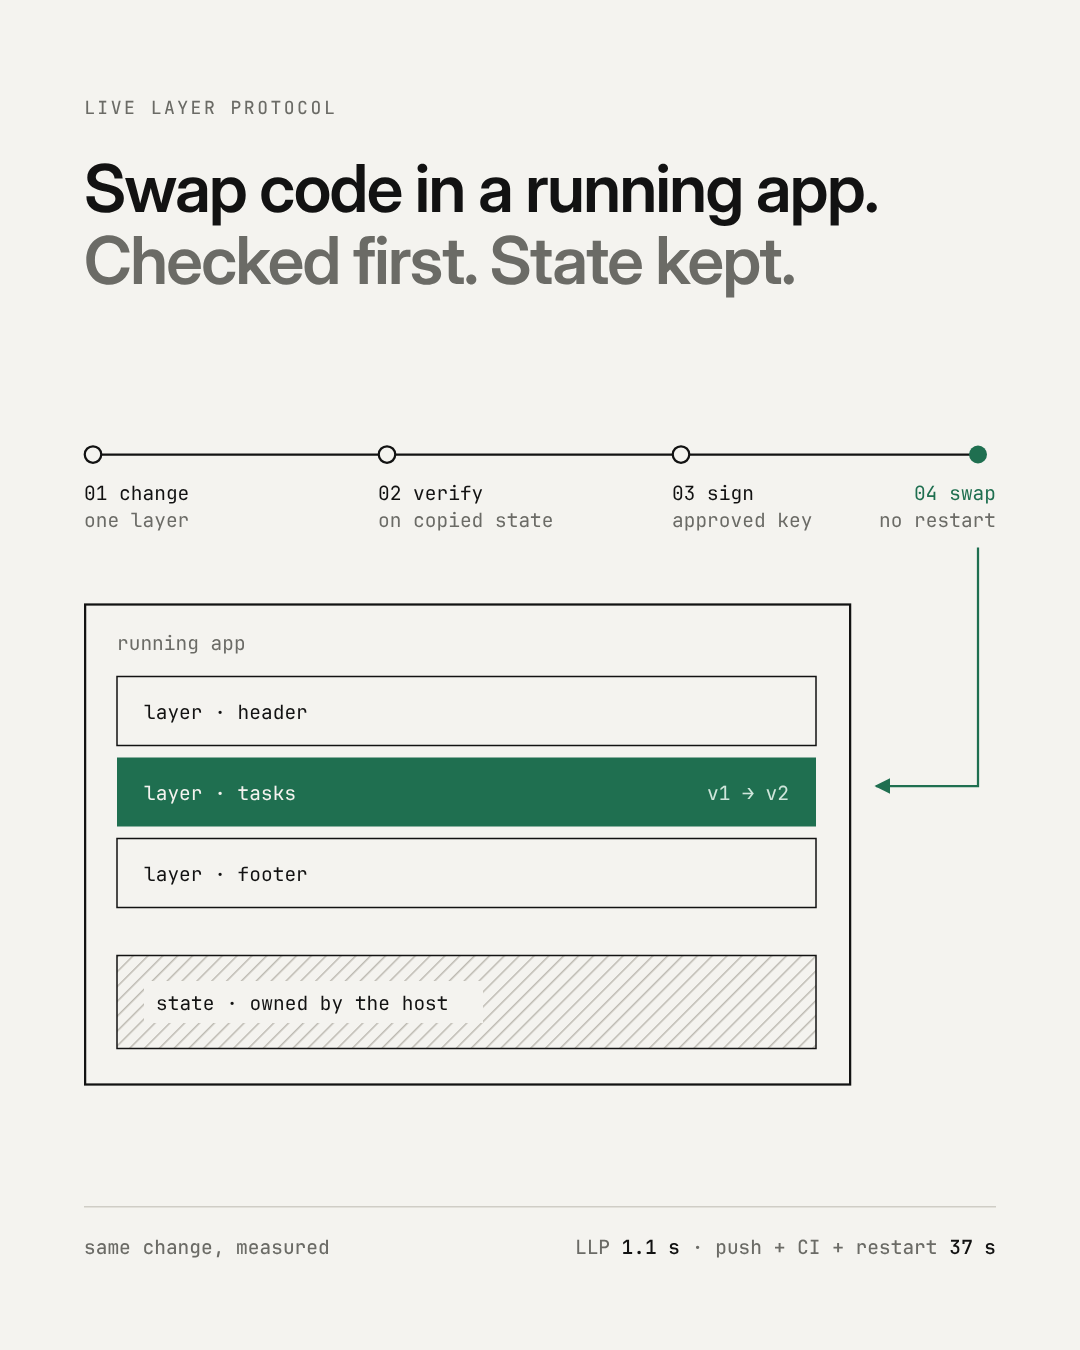
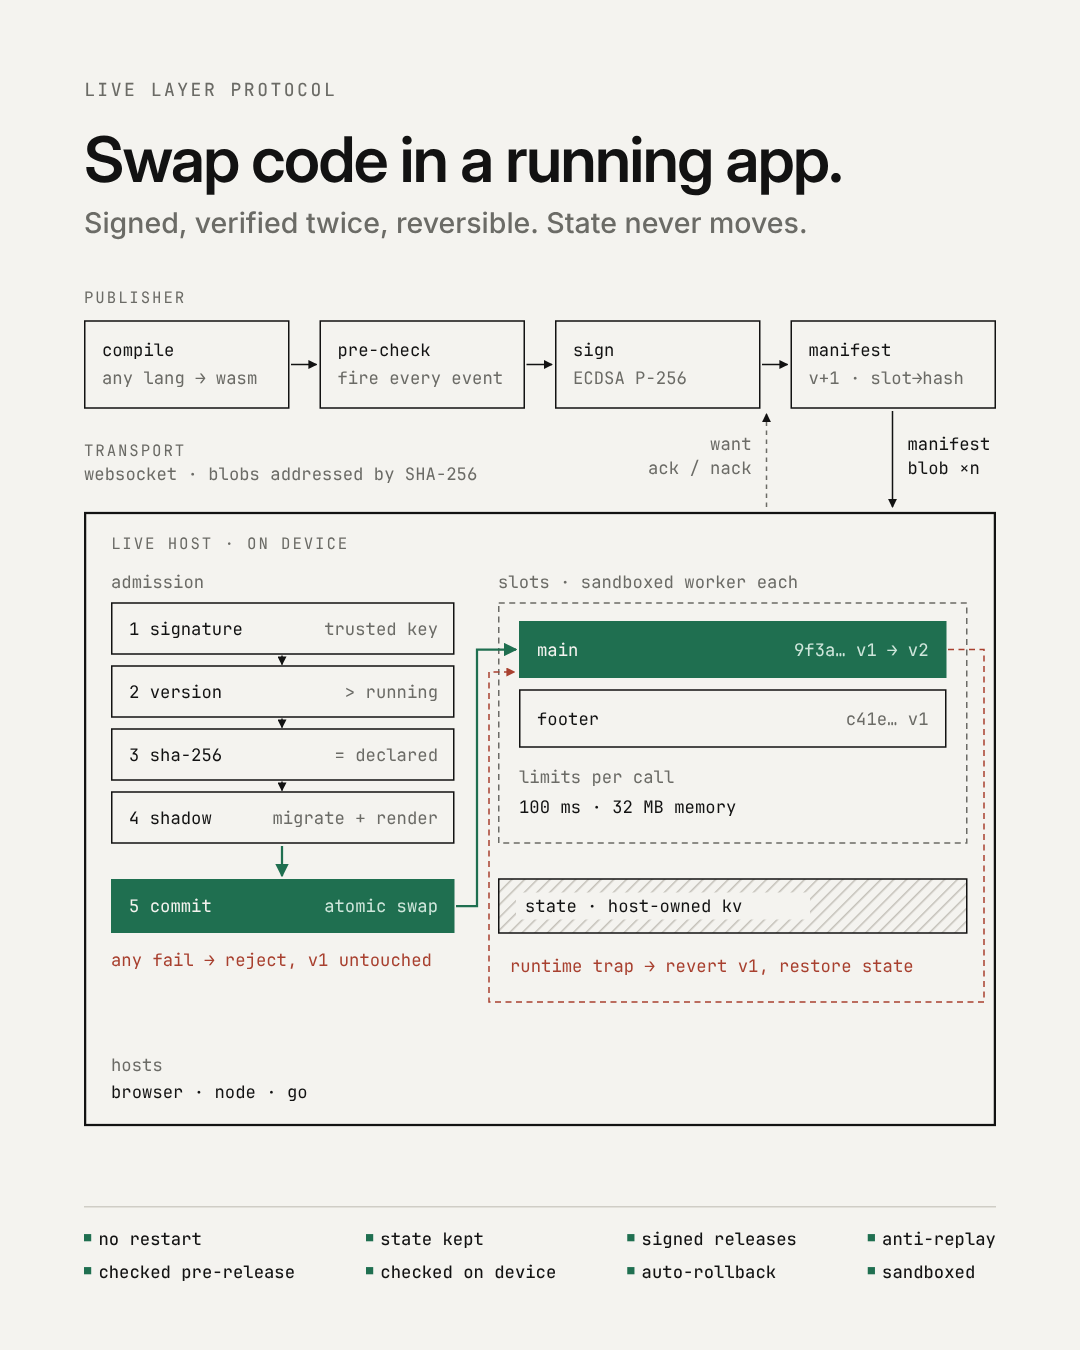
Show LLP's full pipeline in the 'How LLP works' image (#28)
Claude-Session: https://claude.ai/code/session_01WWj9cf3BCK6gR4RS3RDwqR

diff --git a/tools/demo-gif/architecture.html b/tools/demo-gif/architecture.html
@@ -1,59 +1,104 @@
 <!doctype html>
 <meta charset="utf-8">
 <title>How LLP works</title>
-<!-- "How LLP works" image for launch posts: a plain schematic, readable at one glance. Rendered to
-     docs/llp-architecture.png (1080x1350) by node tools/demo-gif/render-architecture.mjs.
-     Claims are in SPEC.md sections 3, 6 and 6.1; the timings are from docs/demo-run.json. -->
+<!-- "How LLP works" image for launch posts: what LLP does, as a schematic of the real pipeline.
+     Rendered to docs/llp-architecture.png (1080x1350) by node tools/demo-gif/render-architecture.mjs.
+     Every component is in SPEC.md sections 2, 3, 5 and 6, and the limits are DEFAULT_LIMITS in host/llp-core.js. -->
 <style>
-:root { --bg: #f4f3ef; --ink: #121212; --mid: #6b6b66; --rule: #cfcdc6; --acc: #1f6f50; }
+:root { --bg: #f4f3ef; --ink: #121212; --mid: #6b6b66; --rule: #cfcdc6; --acc: #1f6f50; --bad: #a8402f; }
 * { box-sizing: border-box; }
 html, body { margin: 0; width: 720px; height: 900px; overflow: hidden; background: var(--bg); color: var(--ink); font-family: Inter, sans-serif; }
-.wrap { padding: 64px 56px 0; }
-.k { font: 500 12px "JetBrains Mono", "DejaVu Sans Mono", monospace; letter-spacing: .14em; color: var(--mid); }
-h1 { margin: 22px 0 0; font: 600 44px/1.08 "Inter Display", Inter, sans-serif; letter-spacing: -0.025em; }
-h1 span { color: var(--mid); }
-svg { display: block; margin-top: 96px; overflow: visible; }
-svg text { font-family: "JetBrains Mono", "DejaVu Sans Mono", monospace; font-size: 13px; fill: var(--ink); }
-svg .m { fill: var(--mid); }
-.foot { position: absolute; left: 56px; right: 56px; bottom: 60px; border-top: 1px solid var(--rule); padding-top: 18px;
-  display: flex; justify-content: space-between; font: 500 13px "JetBrains Mono", "DejaVu Sans Mono", monospace; color: var(--mid); }
-.foot b { color: var(--ink); font-weight: 600; }
+.wrap { padding: 52px 56px 0; }
+.k { font: 500 12px "JetBrains Mono", monospace; letter-spacing: .14em; color: var(--mid); }
+h1 { margin: 16px 0 0; font: 600 42px/1.08 "Inter Display", Inter, sans-serif; letter-spacing: -0.025em; }
+.sub { margin: 8px 0 0; font: 500 19px/1.3 Inter, sans-serif; color: var(--mid); }
+svg { display: block; margin-top: 30px; overflow: visible; }
+svg text { font-family: "JetBrains Mono", monospace; font-size: 11.5px; fill: var(--ink); }
+svg .m { fill: var(--mid); } svg .h { font-size: 10.5px; letter-spacing: .12em; fill: var(--mid); }
+svg .w { fill: #f4f3ef; } svg .a { fill: var(--acc); } svg .r { fill: var(--bad); }
+.foot { position: absolute; left: 56px; right: 56px; bottom: 44px; border-top: 1px solid var(--rule); padding-top: 14px;
+  display: grid; grid-template-columns: repeat(4, auto); justify-content: space-between; row-gap: 7px;
+  font: 500 11.5px "JetBrains Mono", monospace; color: var(--ink); }
+.foot span::before { content: "■ "; color: var(--acc); font-size: 8px; vertical-align: 2px; }
 </style>
 <div class="wrap">
   <div class="k">LIVE LAYER PROTOCOL</div>
-  <h1>Swap code in a running app.<br><span>Checked first. State kept.</span></h1>
-  <svg width="608" height="440" viewBox="0 0 608 440">
+  <h1>Swap code in a running app.</h1>
+  <p class="sub">Signed, verified twice, reversible. State never moves.</p>
+  <svg width="608" height="560" viewBox="0 0 608 560">
     <defs>
-      <pattern id="h" width="7" height="7" patternUnits="userSpaceOnUse" patternTransform="rotate(45)"><line x1="0" y1="0" x2="0" y2="7" stroke="#bdbab2" stroke-width="2"/></pattern>
-      <marker id="a" viewBox="0 0 10 10" refX="9" refY="5" markerWidth="7" markerHeight="7" orient="auto"><path d="M0 0 L10 5 L0 10z" fill="#1f6f50"/></marker>
+      <pattern id="hat" width="6" height="6" patternUnits="userSpaceOnUse" patternTransform="rotate(45)"><line x1="0" y1="0" x2="0" y2="6" stroke="#c3c0b8" stroke-width="2"/></pattern>
+      <marker id="ar" viewBox="0 0 10 10" refX="9" refY="5" markerWidth="6" markerHeight="6" orient="auto"><path d="M0 0L10 5L0 10z" fill="#121212"/></marker>
+      <marker id="aa" viewBox="0 0 10 10" refX="9" refY="5" markerWidth="6" markerHeight="6" orient="auto"><path d="M0 0L10 5L0 10z" fill="#1f6f50"/></marker>
+      <marker id="arr" viewBox="0 0 10 10" refX="9" refY="5" markerWidth="6" markerHeight="6" orient="auto"><path d="M0 0L10 5L0 10z" fill="#a8402f"/></marker>
     </defs>
-    <!-- pipeline -->
-    <line x1="6" y1="10" x2="596" y2="10" stroke="#121212" stroke-width="1.5"/>
-    <g fill="#f4f3ef" stroke="#121212" stroke-width="1.5">
-      <circle cx="6" cy="10" r="5.5"/><circle cx="202" cy="10" r="5.5"/><circle cx="398" cy="10" r="5.5"/>
+
+    <!-- PUBLISHER -->
+    <text class="h" x="0" y="10">PUBLISHER</text>
+    <g fill="none" stroke="#121212">
+      <rect x="0.5" y="22" width="136" height="58"/><rect x="157.5" y="22" width="136" height="58"/>
+      <rect x="314.5" y="22" width="136" height="58"/><rect x="471.5" y="22" width="136" height="58"/>
     </g>
-    <circle cx="596" cy="10" r="6" fill="#1f6f50"/>
-    <text x="0" y="40">01 change</text><text class="m" x="0" y="58">one layer</text>
-    <text x="196" y="40">02 verify</text><text class="m" x="196" y="58">on copied state</text>
-    <text x="392" y="40">03 sign</text><text class="m" x="392" y="58">approved key</text>
-    <text x="608" y="40" text-anchor="end" style="fill:#1f6f50">04 swap</text><text class="m" x="608" y="58" text-anchor="end">no restart</text>
-    <!-- route into the app -->
-    <path d="M596 72 V231 H528" fill="none" stroke="#1f6f50" stroke-width="1.5" marker-end="url(#a)"/>
-    <!-- the app -->
-    <rect x="0.75" y="110" width="510" height="320" fill="none" stroke="#121212" stroke-width="1.5"/>
-    <text class="m" x="22" y="140">running app</text>
-    <rect x="22" y="158" width="466" height="46" fill="none" stroke="#121212"/>
-    <text x="40" y="186">layer · header</text>
-    <rect x="22" y="212" width="466" height="46" fill="#1f6f50"/>
-    <text x="40" y="240" style="fill:#f4f3ef">layer · tasks</text><text x="470" y="240" text-anchor="end" style="fill:#cfe6db">v1 → v2</text>
-    <rect x="22" y="266" width="466" height="46" fill="none" stroke="#121212"/>
-    <text x="40" y="294">layer · footer</text>
-    <rect x="22" y="344" width="466" height="62" fill="url(#h)" stroke="#121212"/>
-    <rect x="40" y="361" width="226" height="28" fill="#f4f3ef"/>
-    <text x="48" y="380">state · owned by the host</text>
+    <g stroke="#121212" marker-end="url(#ar)"><line x1="138" y1="51" x2="155" y2="51"/><line x1="295" y1="51" x2="312" y2="51"/><line x1="452" y1="51" x2="469" y2="51"/></g>
+    <text x="12" y="45">compile</text><text class="m" x="12" y="64">any lang → wasm</text>
+    <text x="169" y="45">pre-check</text><text class="m" x="169" y="64">fire every event</text>
+    <text x="326" y="45">sign</text><text class="m" x="326" y="64">ECDSA P-256</text>
+    <text x="483" y="45">manifest</text><text class="m" x="483" y="64">v+1 · slot→hash</text>
+
+    <!-- TRANSPORT -->
+    <g stroke="#121212" marker-end="url(#ar)"><line x1="539" y1="82" x2="539" y2="146"/></g>
+    <g stroke="#6b6b66" stroke-dasharray="3 3" marker-end="url(#ar)"><line x1="455" y1="146" x2="455" y2="84"/></g>
+    <text x="549" y="108">manifest</text><text x="549" y="124">blob ×n</text>
+    <text class="m" x="445" y="108" text-anchor="end">want</text><text class="m" x="445" y="124" text-anchor="end">ack / nack</text>
+    <text class="h" x="0" y="112">TRANSPORT</text>
+    <text class="m" x="0" y="128">websocket · blobs addressed by SHA-256</text>
+
+    <!-- LIVE HOST -->
+    <rect x="0.75" y="150" width="606.5" height="408" fill="none" stroke="#121212" stroke-width="1.5"/>
+    <text class="h" x="18" y="174">LIVE HOST · ON DEVICE</text>
+
+    <!-- admission gates -->
+    <text class="m" x="18" y="200">admission</text>
+    <g fill="none" stroke="#121212">
+      <rect x="18.5" y="210" width="228" height="34"/><rect x="18.5" y="252" width="228" height="34"/>
+      <rect x="18.5" y="294" width="228" height="34"/><rect x="18.5" y="336" width="228" height="34"/>
+    </g>
+    <text x="30" y="231">1 signature</text><text class="m" x="236" y="231" text-anchor="end">trusted key</text>
+    <text x="30" y="273">2 version</text><text class="m" x="236" y="273" text-anchor="end">&gt; running</text>
+    <text x="30" y="315">3 sha-256</text><text class="m" x="236" y="315" text-anchor="end">= declared</text>
+    <text x="30" y="357">4 shadow</text><text class="m" x="236" y="357" text-anchor="end">migrate + render</text>
+    <g stroke="#121212" marker-end="url(#ar)"><line x1="132" y1="245" x2="132" y2="251"/><line x1="132" y1="287" x2="132" y2="293"/><line x1="132" y1="329" x2="132" y2="335"/></g>
+    <line x1="132" y1="372" x2="132" y2="392" stroke="#1f6f50" stroke-width="1.5" marker-end="url(#aa)"/>
+    <rect x="18" y="394" width="229" height="36" fill="#1f6f50"/>
+    <text class="w" x="30" y="416">5 commit</text><text x="236" y="416" text-anchor="end" style="fill:#cfe6db">atomic swap</text>
+    <text class="r" x="18" y="452">any fail → reject, v1 untouched</text>
+
+    <!-- slots -->
+    <text class="m" x="276" y="200">slots · sandboxed worker each</text>
+    <rect x="276.5" y="210" width="312" height="160" fill="none" stroke="#6b6b66" stroke-dasharray="4 3"/>
+    <rect x="290" y="222" width="285" height="38" fill="#1f6f50"/>
+    <text class="w" x="302" y="245">main</text><text x="563" y="245" text-anchor="end" style="fill:#cfe6db">9f3a… v1 → v2</text>
+    <rect x="290.5" y="268" width="284" height="38" fill="none" stroke="#121212"/>
+    <text x="302" y="291">footer</text><text class="m" x="563" y="291" text-anchor="end">c41e… v1</text>
+    <text class="m" x="290" y="330">limits per call</text>
+    <text x="290" y="350">100 ms · 32 MB memory</text>
+    <path d="M248 412 H262 V241 H288" fill="none" stroke="#1f6f50" stroke-width="1.5" marker-end="url(#aa)"/>
+
+    <!-- state -->
+    <rect x="276.5" y="394" width="312" height="36" fill="url(#hat)" stroke="#121212"/>
+    <rect x="288" y="403" width="196" height="18" fill="#f4f3ef"/>
+    <text x="294" y="416">state · host-owned kv</text>
+
+    <!-- rollback -->
+    <path d="M576 241 H600 V476 H270 V256 H287" fill="none" stroke="#a8402f" stroke-dasharray="4 3" marker-end="url(#arr)"/>
+    <text class="r" x="284" y="456">runtime trap → revert v1, restore state</text>
+    <text class="m" x="18" y="522">hosts</text><text x="18" y="540">browser · node · go</text>
   </svg>
 </div>
-<div class="foot"><span>same change, measured</span><span>LLP <b>1.1 s</b> · push + CI + restart <b>37 s</b></span></div>
+<div class="foot">
+  <span>no restart</span><span>state kept</span><span>signed releases</span><span>anti-replay</span>
+  <span>checked pre-release</span><span>checked on device</span><span>auto-rollback</span><span>sandboxed</span>
+</div>
 <script>
 const q = new URLSearchParams(location.search);
 if (q.get("zoom")) document.documentElement.style.zoom = q.get("zoom");

diff --git a/tools/demo-gif/README.md b/tools/demo-gif/README.md
@@ -59,5 +59,6 @@ The script exits without writing a GIF if the run did not show what the captions
 ## "How LLP works" image
 
 `node tools/demo-gif/render-architecture.mjs` renders `architecture.html` to `docs/llp-architecture.png`
-(1080x1350, 4:5). It is a plain schematic kept to one glance: the four
-steps, the app with one layer swapped and its state kept, and the measured timing from `docs/demo-run.json`. The script fails instead of writing the image if anything overflows the frame. Every claim on it is in SPEC.md sections 3, 6 and 6.1.
+(1080x1350, 4:5). It is a schematic of what LLP does: the publisher
+pipeline, the transport, the host's admission gates and atomic swap, sandboxed slots, host-owned state and
+runtime rollback. The script fails instead of writing the image if anything overflows the frame. Every claim on it is in SPEC.md sections 3, 6 and 6.1.
